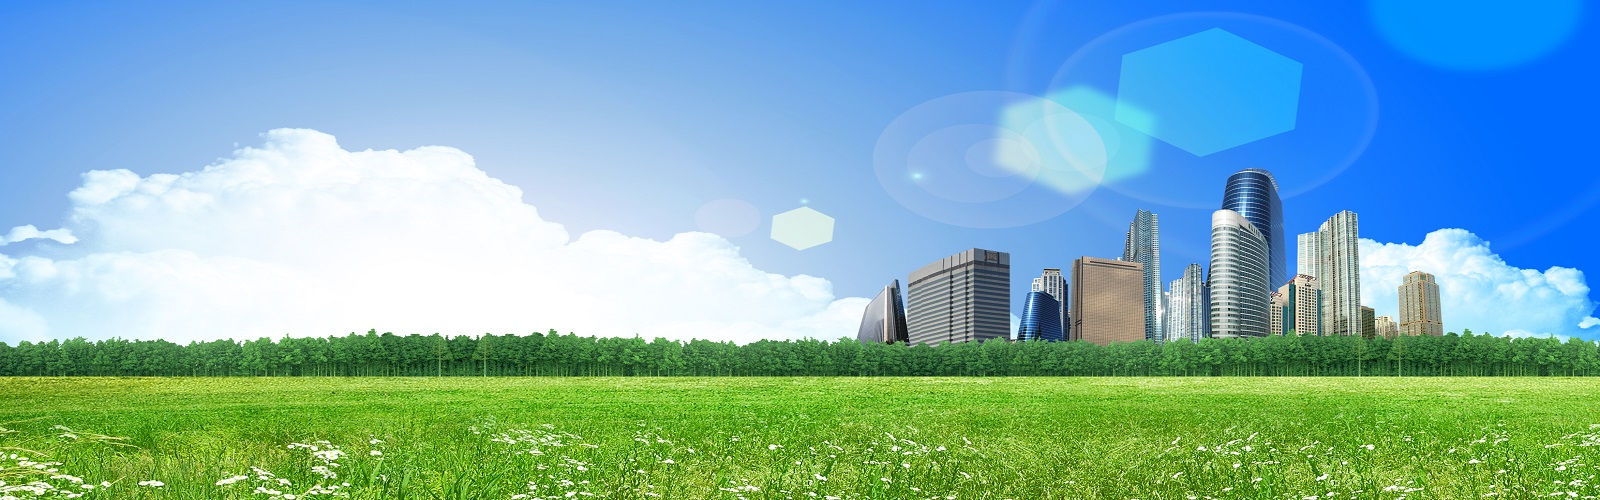
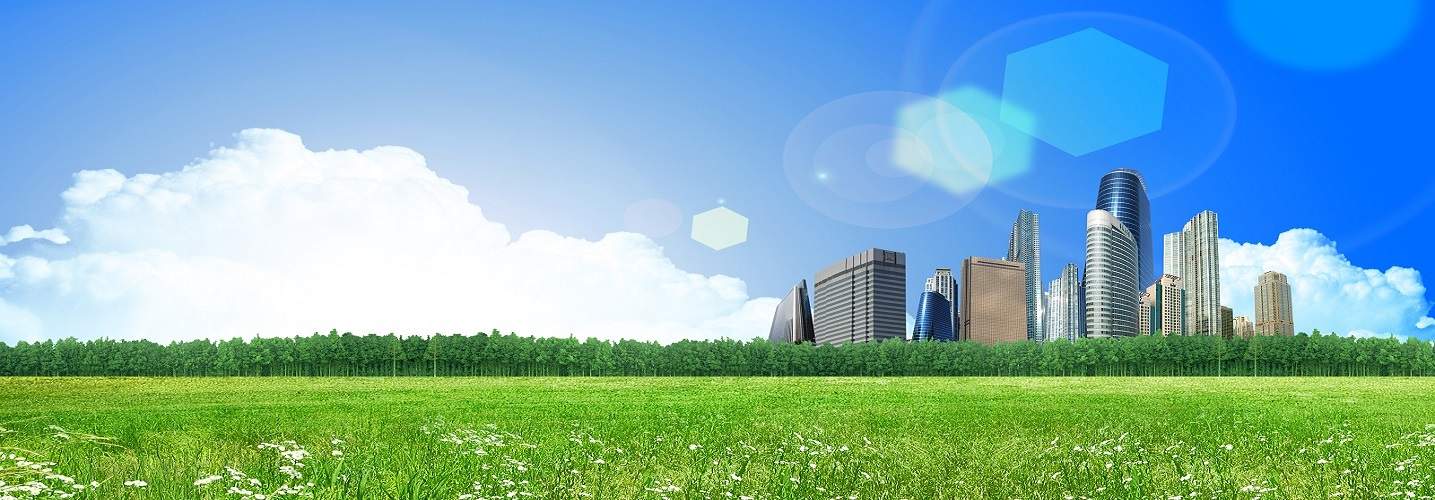
首页调兼容

diff --git a/static/css/home.css b/static/css/home.css
@@ -36,7 +36,7 @@ body {
 	margin: 0 auto;
 	height: 500px;
 	z-index: -10;
-	background: #FFF url(../image/h-enjoyevent-bg.jpg) no-repeat center center;
+	background: #FFF url(../image/h-enjoyevent-bg.png) no-repeat center center;
 	background-size: 1435px 500px;
 }
 #pic2 {
@@ -99,7 +99,7 @@ body {
 }
 .title1 h2 {
 	width: 480px;
-	height: 448px;
+	height: 248px;
 	overflow: hidden;
 	position: absolute;
 	top: 150px;
@@ -223,7 +223,7 @@ body {
 }
 .high-box {
 	width: 1200px;
-	height: 700px;
+	height: 500px;
 	position: relative;
 	margin: auto;
 }

diff --git a/static/js/pic.js b/static/js/pic.js
@@ -67,7 +67,7 @@ $(document).ready(function() {
   	run();             //加载页面时启动定时器  
 });
 function run() {  
-     interval = setInterval(fadetime, "6000");  
+     //interval = setInterval(fadetime, "6000");  
 }  
 function fadetime() {
 	$("#pic"+focus_fade).stop().animate({opacity: '0'},1000);

diff --git a/static/css/home_middle.css b/static/css/home_middle.css
@@ -90,6 +90,7 @@ li {
 	margin-top:10px;
 	height:210px;
 	overflow:hidden;
+	position:relative;
 }
 
 #middle_list_scroll{
